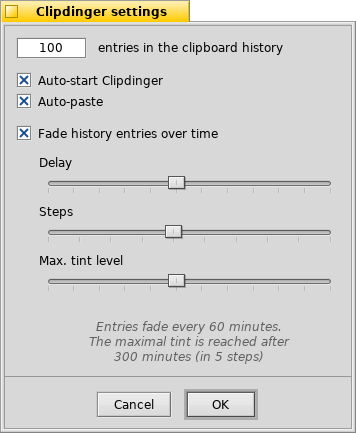
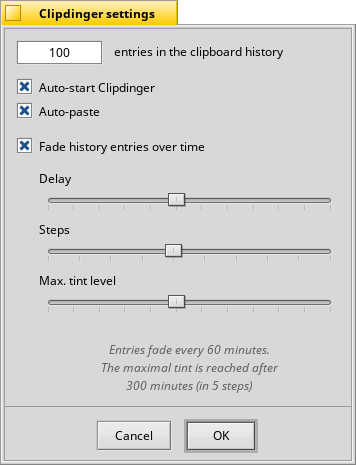
Release v0.5.5
Changes to v0.5.4:
* Added auto-start setting.
* Added replicatable clipboard monitor.
* Tweaked fading algorithm to fade much slower now.
* Added tool tip with the time and date a clip was added to the history.
* Added localization for British English.
* Use standard conforming app signature
  "application/x-vnd.humdinger-clipdinger".
* Bug fix: Deleting clips with the _DEL_ key was broken.
* Bug fix: When Clipdinger is launched, add existing clipboard
  contents to the history.
* Bug fix: Explanatory text in settings window didn't show 4-digit
  minutes value and didn't show the correct values when first opened.
* Bug fix: The time a clip was added was put in too small a variable
  (32bit), now it's 64bit. Old history clips may experience color
  problems. Use _Clear history_ in that case.

diff --git a/ReadMe.html b/ReadMe.html
@@ -99,7 +99,7 @@ for <a href="http://www.haiku-os.org">Haiku</a><br />
 </div>
 <hr />
 <p><br /></p>
-<p>Clipdinger is a small tool to manage a history of the system clipboard. It solves the problem that you often have to paste some text you've just recently copied to the clipboard, but that has been replaced by something you've copied more recently... It also saves the history so it'll appear just as you left it on the last shutdown.</p>
+<p>Clipdinger manages a history of the system clipboard. It solves the problem that you often have to paste some text you've just recently copied to the clipboard, but that has been replaced by something you've copied more recently... It also saves the history so it'll appear just as you left it on the last shutdown.</p>
 <p>If you want to paste some text that isn't in the clipboard any more, simply hit <span class="key">SHIFT</span> <span class="key">ALT</span> <span class="key">V</span> to summon the Clipdinger window. Here you can select an entry with the <span class="key">CursorUp/Down</span> keys and put it into the clipboard or auto-paste it by hitting <span class="key">RETURN</span>.</p>
 <p>After selecting a clip, you can also paste it to the online service <a href="http://sprunge.us">Sprunge.us</a> by hitting <span class="key">ALT</span> <span class="key">P</span>. The returned URL for the clip is put into the clipboard for you to paste into your email or IRC channel etc.</p>
 <p><span class="key">ESCAPE</span> or <span class="key">ALT</span> <span class="key">W</span> aborts and minimizes the Clipdinger window.</p>
@@ -107,11 +107,11 @@ for <a href="http://www.haiku-os.org">Haiku</a><br />
 <h2>
 <a href="#"><img src="images/up.png" style="border:none;float:right" alt="index" /></a>
 <a id="history-favorites" name="history-favorites">History &amp; Favorites</a></h2>
-<p>Clipdinger starts minimized, because it sits in the background a just monitors the system clipboard. When activated by pressing <span class="key">SHIFT</span> <span class="key">ALT</span> <span class="key">V</span> its main window pops up:</p>
+<p>Clipdinger starts minimized, because it sits in the background and just monitors the system clipboard. When activated by pressing <span class="key">SHIFT</span> <span class="key">ALT</span> <span class="key">V</span> its main window pops up:</p>
 <div align = "center">
 <img src="./images/clipdinger.png" alt="Clipdinger main window" />
 </div>
-<p>To the left is a history of your past clippings (empty, of course, when started for the first time). For easier orientation, the icon of the app that a clip was copied from is drawn to the left of the text. The top entry is always what's currently in the clipboard.</p>
+<p>To the left is a history of your past clippings (empty, of course, when started for the first time). For easier orientation, the icon of the app that a clip was copied from is drawn to the left of the text. The top entry is always what's currently in the clipboard. Hover your mouse pointer over an entry for a tool tip with the time and date when a clip was added.</p>
 <p>If you have the <span class="menu">Fade history entries over time</span> option activated, there'll also be a checkbox <span class="menu">Pause fading</span> below the history list. You find more on that farther down, where Clipdinger's settings are discussed.</p>
 
 <p>To the right is a list of saved favorites. You right-click on an entry in the history to the left, and choose <span class="menu">Add to favorites</span> to make a clipping a favorite. The first 12 entries have automatically an <span class="key">F-key</span> assigned for even quicker pasting of your most used clippings.</p>
@@ -123,8 +123,8 @@ for <a href="http://www.haiku-os.org">Haiku</a><br />
 <h2>
 <a href="#"><img src="images/up.png" style="border:none;float:right" alt="index" /></a>
 <a id="monitor" name="monitor">Clipboard monitor</a></h2>
-<p>You can open the <span class="menu">Clipboard monitor</span> from the <span class="menu">App</span> menu. It simply shows the current contents of the clipboard, which helps keeping track if you have to continuously switch between some clips in the history/favorites.<br />
-The Clipboard monitor can be used as a replicant on the Desktop:</p>
+<p>You can open the <span class="menu">Clipboard monitor</span> from the <span class="menu">App</span> menu. It simply shows the current contents of the clipboard, which helps keeping track if you have to continuously switch between some clips from the history/favorites.<br />
+The Clipboard monitor is supposed be used as a replicant on the Desktop.</p>
 <div align = "center">
 <img src="./images/clipboard-monitor.png" alt="Clipboard monitor as replicant" />
 </div>
@@ -140,7 +140,7 @@ The Clipboard monitor can be used as a replicant on the Desktop:</p>
 <img src="./images/clipdinger-settings.png" alt="Clipdinger settings" />
 </div>
 <p>At the top of the settings window, you can set the number of entries in the history (the default is 100).<br />
-Keep in mind that every clipping is kept in memory and if you copy many large blocks of text, you may clog up your memory. Though, for everyday use, where clippings are seldom larger than a few KiBs at most, having a few dozen entries in the history shouldn't tax memory noticeably.</p>
+Keep in mind that every clipping is kept in memory and if you copy many large blocks of text, you may clog up your memory. Though, for everyday use, where clippings are seldom larger than a few KiBs at most, having several dozen entries in the history shouldn't tax memory noticeably.</p>
 <p>Once the limit of the history is reached, the oldest entry is removed automatically to make room for the new clipping.</p>
 <p>You can remove an entry by selecting it and pressing <span class="key">DEL</span>  or choose <span class="menu">Remove clip</span> from the context menu. You remove the complete clipboard history with <span class="menu">Clear history</span> from the <span class="menu">History</span> menu.</p>
 <p><span class="menu">Auto-start Clipdinger</span> controls if Clipdinger will be started automatically at every boot-up.</p>
@@ -155,8 +155,8 @@ Below the sliders is a summary of your setting in plain English.</p>
 <li><p>If you've used Clipdinger before v0.5.5, you can now remove the link to it in the <span class="path">/boot/home/config/settings/boot/launch/</span>  folder and use the new setting to auto-start instead.</p></li> 
 <li><p>Changes in the settings window can be viewed live in the main window. To find the right fading settings for you, it's best to keep working normally for some time to fill the history and then just play around with the sliders until you're satisfied.</p></li>
 <li><p>Clipdinger's <span class="menu">Auto-paste</span> feature can be a bit tricky: It doesn't know in which application's window you pressed <span class="key">SHIFT</span> <span class="key">ALT</span> <span class="key">V</span> for it to pop up. With activated auto-paste, it simply pastes into last window that was active before you hit <span class="key">ENTER</span> or double-clicked an entry. So, avoid detours...</p></li>
-<li><p>If you want to back up Clipdinger's settings, history or favorites, or have the need to delete one or all of these files, you'll find them under <span class="path">/boot/home/config/settings/Clipdinger/</span>.</p></li>
-<li><p>If the replicant of the Clipboard monitor unexpectedly gives you grieve (or any replicant for that matter), you can remove all replicants on the Desktop by deleting <span class="path">/boot/home/config/settings/Tracker/tracker_shelf</span>.</p></li>
+<li><p>If you want to back-up Clipdinger's settings, history or favorites, or have the need to delete one or all of these files, you'll find them under <span class="path">/boot/home/config/settings/Clipdinger/</span>.</p></li>
+<li><p>If the replicant of the Clipboard monitor unexpectedly gives you grief (or any replicant for that matter), you can remove all replicants on the Desktop by deleting <span class="path">/boot/home/config/settings/Tracker/tracker_shelf</span>.</p></li>
 </ul>
 
 <h2>
@@ -180,12 +180,18 @@ Also, thanks to everyone that contributed translations for Clipdinger.</p>
 <a href="#"><img src="images/up.png" style="border:none;float:right" alt="index" /></a>
 <a id="history" name="history">History</a></h2>
 
-<p><b>0.5.5</b> - <i>23-11-2016:</i></p>
+<p><b>0.5.5</b> - <i>28-11-2016:</i></p>
 <ul>
-<li>Added auto start setting.</li>
+<li>Added auto-start setting.</li>
 <li>Added replicatable clipboard monitor.</li>
-<li>Bug fix: When Clipdinger is launched, check for existing clipboard contents  and add it to its history.</li>
-<li>Bug fix: Explanatory text in settings window didn't show 4-digit minute values.</li>
+<li>Tweaked fading algorithm to fade much slower now.</li>
+<li>Added tool tip with the time and date a clip was added to the history.</li>
+<li>Added localization for British English.</li>
+<li>Use standard conforming app signature "application/x-vnd.humdinger-clipdinger".</li>
+<li>Bug fix: Deleting clips with the <span class="key">DEL</span> key was broken.</li>
+<li>Bug fix: When Clipdinger is launched, add existing clipboard contents to the history.</li>
+<li>Bug fix: Explanatory text in settings window didn't show 4-digit minutes value and didn't show the correct values when first opened.</li>
+<li>Bug fix: The time a clip was added was put in too small a variable (32bit), now it's 64bit. Old history clips may experience color problems. Use _Clear history_ in that case.</li>
 </ul>
 
 <p><b>0.5.4</b> - <i>12-06-2016:</i></p>
@@ -196,7 +202,7 @@ Also, thanks to everyone that contributed translations for Clipdinger.</p>
 
 <p><b>0.5.3</b> - <i>11-06-2016:</i></p>
 <ul>
-<li>Bug fix: Make the context menu more robust. Fixes issue #2.</li>
+<li>Bug fix: Make the context menu more robust.</li>
 <li>Added Russian localization, thanks to Akujiism.</li>
 </ul>
 

diff --git a/Readme.md b/Readme.md
@@ -2,7 +2,7 @@
 
 * * *
 
-Clipdinger is a small tool to manage a history of the system clipboard. It solves the problem that you often have to paste some text you've just recently copied to the clipboard, but that has been replaced by something you've copied more recently... It also saves the history so it'll appear just as you left it on the last shutdown.
+Clipdinger manages a history of the system clipboard. It solves the problem that you often have to paste some text you've just recently copied to the clipboard, but that has been replaced by something you've copied more recently... It also saves the history so it'll appear just as you left it on the last shutdown.
 
 If you want to paste some text that isn't in the clipboard any more, simply hit _SHIFT_ + _ALT_ + _V_ to summon the Clipdinger window. Here you can select an entry with the _CursorUp/Down_ keys and put it into the clipboard or auto-paste it by hitting _RETURN_.
 
@@ -12,11 +12,11 @@ _ESCAPE_  or _ALT_ + _W_ aborts and minimizes the Clipdinger window.
 
 ### History & Favorites
 
-Clipdinger starts minimized, because it sits in the background a just monitors the system clipboard. When activated by pressing _SHIFT_ + _ALT_ + _V_ its main window pops up:
+Clipdinger starts minimized, because it sits in the background and just monitors the system clipboard. When activated by pressing _SHIFT_ + _ALT_ + _V_ its main window pops up:
 
 ![screenshot](./images/clipdinger.png)
 
-To the left is a history of your past clippings (empty, of course, when started for the first time). For easier orientation, the icon of the app that a clip was copied from is drawn to the left of the text. The top entry is always what's currently in the clipboard.
+To the left is a history of your past clippings (empty, of course, when started for the first time). For easier orientation, the icon of the app that a clip was copied from is drawn to the left of the text. The top entry is always what's currently in the clipboard. Hover your mouse pointer over an entry for a tool tip with the time and date when a clip was added.
 
 If you have the _Fade history entries over time_ option activated, there'll also be a checkbox _Pause fading_ below the history list. You find more on that farther down, where Clipdinger's settings are discussed.
 
@@ -31,8 +31,8 @@ You can quickly switch between history and favorites lists with _CursorRight/Lef
 
 ### Clipboard monitor
 
-You can open the _Clipboard monitor_ from the _App_ menu. It simply shows the current contents of theclipboard, which helps if you have to continuously switch between some clips in the history/favorites.
-The Clipboard monitor can be used as a replicant on the Desktop:
+You can open the _Clipboard monitor_ from the _App_ menu. It simply shows the current contents of theclipboard, which helps if you have to continuously switch between some clips from the history/favorites.
+The Clipboard monitor is supposed be used as a replicant on the Desktop.
 
 ![screenshot](./images/clipboard-monitor.png)
 
@@ -49,7 +49,7 @@ This is the settings window, summoned with _Settings..._ from the _App_ menu:
 ![screenshot](./images/clipdinger-settings.png)
 
 At the top of the settings window, you can set the number of entries in the history (the default is 100).
-Keep in mind that every clipping is kept in memory and if you copy many large blocks of text, you may clog up your memory. Though, for everyday use, where clippings are seldom larger than a few KiBs at most, having a few dozen entries in the history shouldn't tax memory noticeably.
+Keep in mind that every clipping is kept in memory and if you copy many large blocks of text, you may clog up your memory. Though, for everyday use, where clippings are seldom larger than a few KiBs at most, having several dozen entries in the history shouldn't tax memory noticeably.
 
 Once the limit of the history is reached, the oldest entry is removed automatically to make room for the new clipping.
 
@@ -69,8 +69,8 @@ If you leave your computer or just know that you won't do any copy&paste for a l
 *   If you've used Clipdinger before v0.5.5, you can now remove the link to it in the `/boot/home/config/settings/boot/launch/` folder and use the new setting to auto-start instead.
 *   Changes in the settings window can be viewed live in the main window. To find the right fading settings for you, it's best to keep working normally for some time to fill the history and then just play around with the sliders until you're satisfied.
 *   Clipdinger's _Auto-paste_ feature can be a bit tricky: It doesn't know in which window you pressed _SHIFT_ + _ALT_ + _V_ for it to pop up. With activated auto-paste, it simply pastes into last window that was active before you hit _ENTER_ or double-clicked an entry. So, avoid detours...
-*   If you want to back up Clipdinger's settings, history or favorites, or have the need to delete one or all of these files, you'll find them under `/boot/home/config/settings/Clipdinger/`.
-*	If the replicant of the Clipboard monitor unexpectedly gives you grieve (or any replicant for that matter), you can remove all replicants on the Desktop by deleting `/boot/home/config/settings/Tracker/tracker_shelf`.
+*   If you want to back-up Clipdinger's settings, history or favorites, or have the need to delete one or all of these files, you'll find them under `/boot/home/config/settings/Clipdinger/`.
+*	If the replicant of the Clipboard monitor unexpectedly gives you grief (or any replicant for that matter), you can remove all replicants on the Desktop by deleting `/boot/home/config/settings/Tracker/tracker_shelf`.
 
 
 ### Download
@@ -89,12 +89,18 @@ Also, thanks to everyone that contributed translations for Clipdinger.
 
 ### History
 
-**0.5.5** - _23-11-2016:_
+**0.5.5** - _28-11-2016:_
 
-*   Added auto start setting.
+*   Added auto-start setting.
 *   Added replicatable clipboard monitor.
-*	Bug fix: When Clipdinger is launched, check for existing clipboard contents  and add it to its history.
-*	Bug fix: Explanatory text in settings window didn't show 4-digit minute values.
+*	Tweaked fading algorithm to fade much slower now.
+*	Added tool tip with the time and date a clip was added to the history.
+*	Added localization for British English.
+*	Use standard conforming app signature "application/x-vnd.humdinger-clipdinger".
+*	Bug fix: Deleting clips with the _DEL_ key was broken.
+*	Bug fix: When Clipdinger is launched, add existing clipboard contents to the history.
+*	Bug fix: Explanatory text in settings window didn't show 4-digit minutes value and didn't show the correct values when first opened.
+*	Bug fix: The time a clip was added was put in too small a variable (32bit), now it's 64bit. Old history clips may experience color problems. Use _Clear history_ in that case.
 
 **0.5.4** - _12-06-2016:_
 
@@ -103,7 +109,7 @@ Also, thanks to everyone that contributed translations for Clipdinger.
 
 **0.5.3** - _11-06-2016:_
 
-*   Bug fix: Make the context menu more robust. Fixes issue #2.
+*   Bug fix: Make the context menu more robust.
 *	Added Russian localization, thanks to Akujiism.
 
 **0.5.2** - _20-01-2016:_
